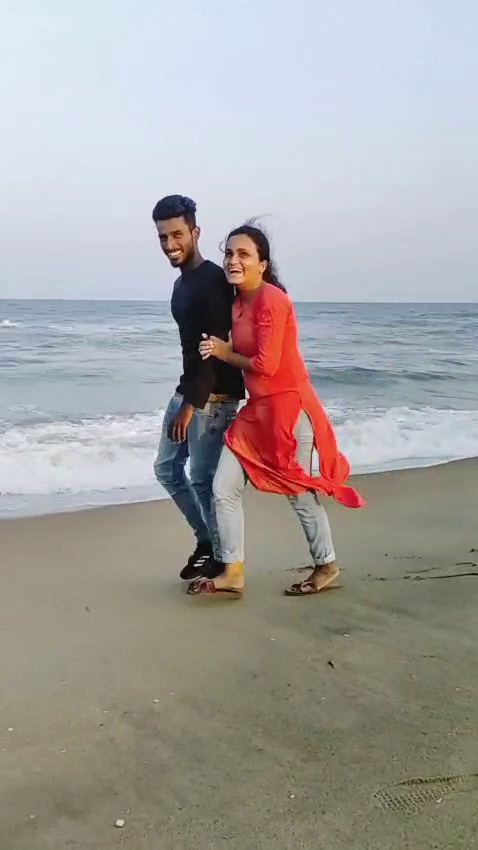
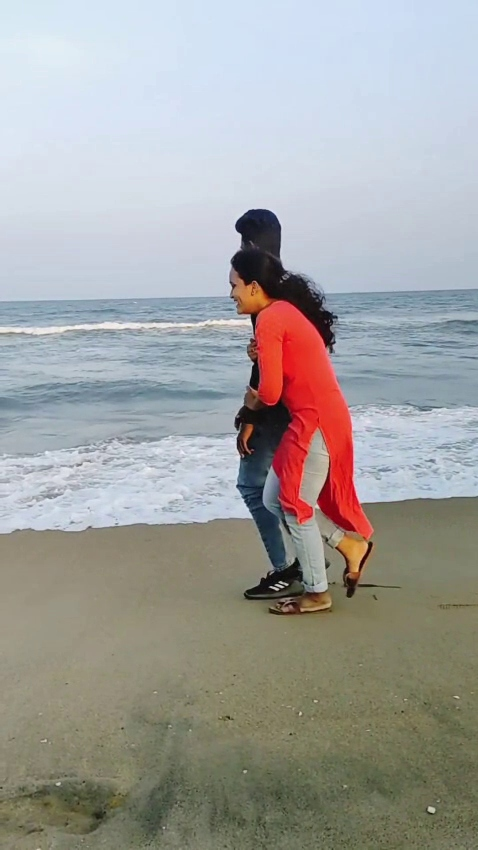
Production release: remove Circle of Love, remaster HD photo, fix venue time alignments, and add royal hero frame

diff --git a/index.html b/index.html
@@ -192,6 +192,29 @@ body {
 }
 
 /* Top Royal Header Announcement (Above heads in dark ceiling space) */
+.hero-royal-frame {
+  position: absolute;
+  inset: 12px;
+  border: 1px solid rgba(235, 213, 160, 0.35);
+  border-radius: 4px;
+  pointer-events: none;
+  z-index: 2;
+  box-shadow: inset 0 0 16px rgba(0, 0, 0, 0.25);
+}
+.hero-royal-frame::after {
+  content: '';
+  position: absolute;
+  inset: 3px;
+  border: 1px solid rgba(235, 213, 160, 0.18);
+  border-radius: 2px;
+}
+.hero-royal-crest-mini {
+  font-size: 11px;
+  color: var(--gold-light);
+  letter-spacing: 0.35em;
+  margin-bottom: 6px;
+  text-shadow: 0 2px 8px rgba(0, 0, 0, 0.95);
+}
 .hero-top-announcement {
   position: relative;
   z-index: 3;
@@ -1015,96 +1038,6 @@ body {
   line-height: 1.5;
 }
 
-/* ═══════════════════════════════════════
-   7. CIRCLE OF LOVE SECTION
-   (Family & Friends Honor Roll from Official PDF)
-   ═══════════════════════════════════════ */
-.circle-love-section {
-  position: relative;
-  background: var(--ivory);
-  padding: 48px 24px 42px;
-  text-align: center;
-}
-.circle-tag {
-  font-family: 'Cinzel', serif;
-  font-size: 11px;
-  font-weight: 600;
-  letter-spacing: 0.35em;
-  color: var(--gold-dark);
-  text-transform: uppercase;
-  margin-bottom: 6px;
-}
-.circle-title {
-  font-family: 'Cinzel', serif;
-  font-size: 21px;
-  font-weight: 600;
-  letter-spacing: 0.2em;
-  color: var(--maroon);
-  text-transform: uppercase;
-  line-height: 1.3;
-}
-.circle-ornament {
-  width: 48px;
-  height: 1.5px;
-  background: var(--gold);
-  margin: 12px auto 18px;
-}
-.circle-sub {
-  font-family: 'Playfair Display', serif;
-  font-style: italic;
-  font-size: 13.5px;
-  color: var(--text-muted);
-  max-width: 320px;
-  margin: 0 auto 24px;
-}
-
-/* Feature 6: Mobile Touch-Responsive Circle of Love Badges */
-.circle-grid {
-  display: flex;
-  flex-wrap: wrap;
-  gap: 10px;
-  justify-content: center;
-  max-width: 360px;
-  margin: 0 auto 24px;
-}
-.circle-badge {
-  background: linear-gradient(145deg, #FFFFFF 0%, #FAF7F0 100%);
-  border: 1.2px solid rgba(197, 152, 74, 0.55);
-  padding: 8px 16px;
-  border-radius: 24px;
-  font-family: 'Montserrat', sans-serif;
-  font-size: 11.5px;
-  font-weight: 500;
-  color: var(--text-main);
-  letter-spacing: 0.04em;
-  box-shadow: 0 2px 7px rgba(42, 29, 21, 0.06), inset 0 1px 0 #FFFFFF;
-  display: inline-flex;
-  align-items: center;
-  gap: 6px;
-  -webkit-tap-highlight-color: transparent;
-  transition: transform 0.18s cubic-bezier(0.34, 1.56, 0.64, 1), border-color 0.18s ease, box-shadow 0.18s ease, background 0.18s ease;
-}
-.circle-badge::before {
-  content: "✦";
-  font-size: 8px;
-  color: var(--gold-dark);
-  opacity: 0.85;
-}
-.circle-badge:active {
-  transform: scale(0.95);
-  border-color: var(--maroon);
-  background: #FFF5E8;
-  color: var(--maroon);
-  box-shadow: 0 4px 14px rgba(117, 34, 43, 0.2);
-}
-@media (hover: hover) {
-  .circle-badge:hover {
-    transform: translateY(-2px);
-    border-color: var(--maroon);
-    background: #FFFBF5;
-    box-shadow: 0 6px 14px rgba(117, 34, 43, 0.12);
-  }
-}
 
 /* ═══════════════════════════════════════
    8. JOIN US HERE / DUAL VENUES
@@ -1160,22 +1093,26 @@ body {
   display: flex;
   align-items: center;
   justify-content: center;
-  gap: 10px;
+  gap: 8px;
   margin-bottom: 12px;
+  width: 100%;
 }
 .v-badge-line {
-  width: 26px;
+  flex: 1;
+  max-width: 32px;
+  min-width: 10px;
   height: 1px;
   background: var(--gold);
-  opacity: 0.65;
+  opacity: 0.7;
 }
 .v-badge-title {
   font-family: 'Cinzel', serif;
-  font-size: 10.5px;
-  font-weight: 600;
-  letter-spacing: 0.26em;
+  font-size: clamp(9.5px, 2.7vw, 11px);
+  font-weight: 700;
+  letter-spacing: 0.12em;
   color: var(--maroon);
   text-transform: uppercase;
+  white-space: nowrap;
 }
 .v-church-name {
   font-family: 'Cinzel', serif;
@@ -1533,6 +1470,9 @@ body {
        Full Bleed Palace Gateway with Falling Rose Petals
        ═══════════════════════════════════════ -->
   <header class="hero-palace-gate" id="heroGate">
+    <!-- Royal Inset Border Frame -->
+    <div class="hero-royal-frame"></div>
+
     <!-- Feature 2: Ambient Golden Floating Stardust Motes -->
     <div class="stardust-box">
       <span class="sd-mote sd-1"></span>
@@ -1554,6 +1494,7 @@ body {
 
     <!-- Top Royal Header Announcement (Above heads in dark ceiling space) -->
     <div class="hero-top-announcement rv d1">
+      <div class="hero-royal-crest-mini">✦ &nbsp; ✟ &nbsp; ✦</div>
       <div class="hero-top-eyebrow">WITH GREAT JOY, WE INVITE YOU TO CELEBRATE</div>
       <div class="hero-top-title">THE WEDDING OF</div>
     </div>
@@ -1878,35 +1819,6 @@ body {
     </div>
   </section>
 
-  <!-- ═══════════════════════════════════════
-       7. CIRCLE OF LOVE SECTION
-       (Family & Friends Honor Roll from Official PDF)
-       ═══════════════════════════════════════ -->
-  <section class="circle-love-section">
-    <div class="circle-tag rv">With Love</div>
-    <h2 class="circle-title rv d1">From Our Circle of Love</h2>
-    <div class="circle-ornament rv d1"></div>
-    <p class="circle-sub rv d2">
-      Surrounded by the warmth, affection, and prayers of our beloved families and dearest friends
-    </p>
-
-    <div class="circle-grid rv d2">
-      <div class="circle-badge">Sugirtha &amp; Family</div>
-      <div class="circle-badge">Selsha &amp; Family</div>
-      <div class="circle-badge">Simon</div>
-      <div class="circle-badge">Prince &amp; Family</div>
-      <div class="circle-badge">Mani</div>
-      <div class="circle-badge">Manoj</div>
-      <div class="circle-badge">Augustine</div>
-      <div class="circle-badge">Ezhil</div>
-      <div class="circle-badge">Centhil</div>
-      <div class="circle-badge">Teja</div>
-      <div class="circle-badge">Kathir</div>
-      <div class="circle-badge">Hari</div>
-    </div>
-
-    <div style="font-size:18px; color:var(--gold-dark); opacity:0.85; margin-top:10px;">✦ &nbsp; ✦ &nbsp; ✦</div>
-  </section>
 
   <!-- ═══════════════════════════════════════
        8. JOIN US HERE / DUAL VENUES
@@ -1926,7 +1838,7 @@ body {
 
       <div class="v-header-badge">
         <span class="v-badge-line"></span>
-        <span class="v-badge-title">Holy Matrimony · 4:00 PM</span>
+        <span class="v-badge-title">Holy Matrimony &nbsp;•&nbsp; 4:00&nbsp;PM</span>
         <span class="v-badge-line"></span>
       </div>
       <h3 class="v-church-name">C.S.I. St. Bartholomew's Church</h3>
@@ -1950,7 +1862,7 @@ body {
 
       <div class="v-header-badge">
         <span class="v-badge-line"></span>
-        <span class="v-badge-title">Wedding Reception · 6:30 PM</span>
+        <span class="v-badge-title">Wedding Reception &nbsp;•&nbsp; 6:30&nbsp;PM</span>
         <span class="v-badge-line"></span>
       </div>
       <h3 class="v-church-name">C.S.I. St. Stephen's Tamil Church</h3>
